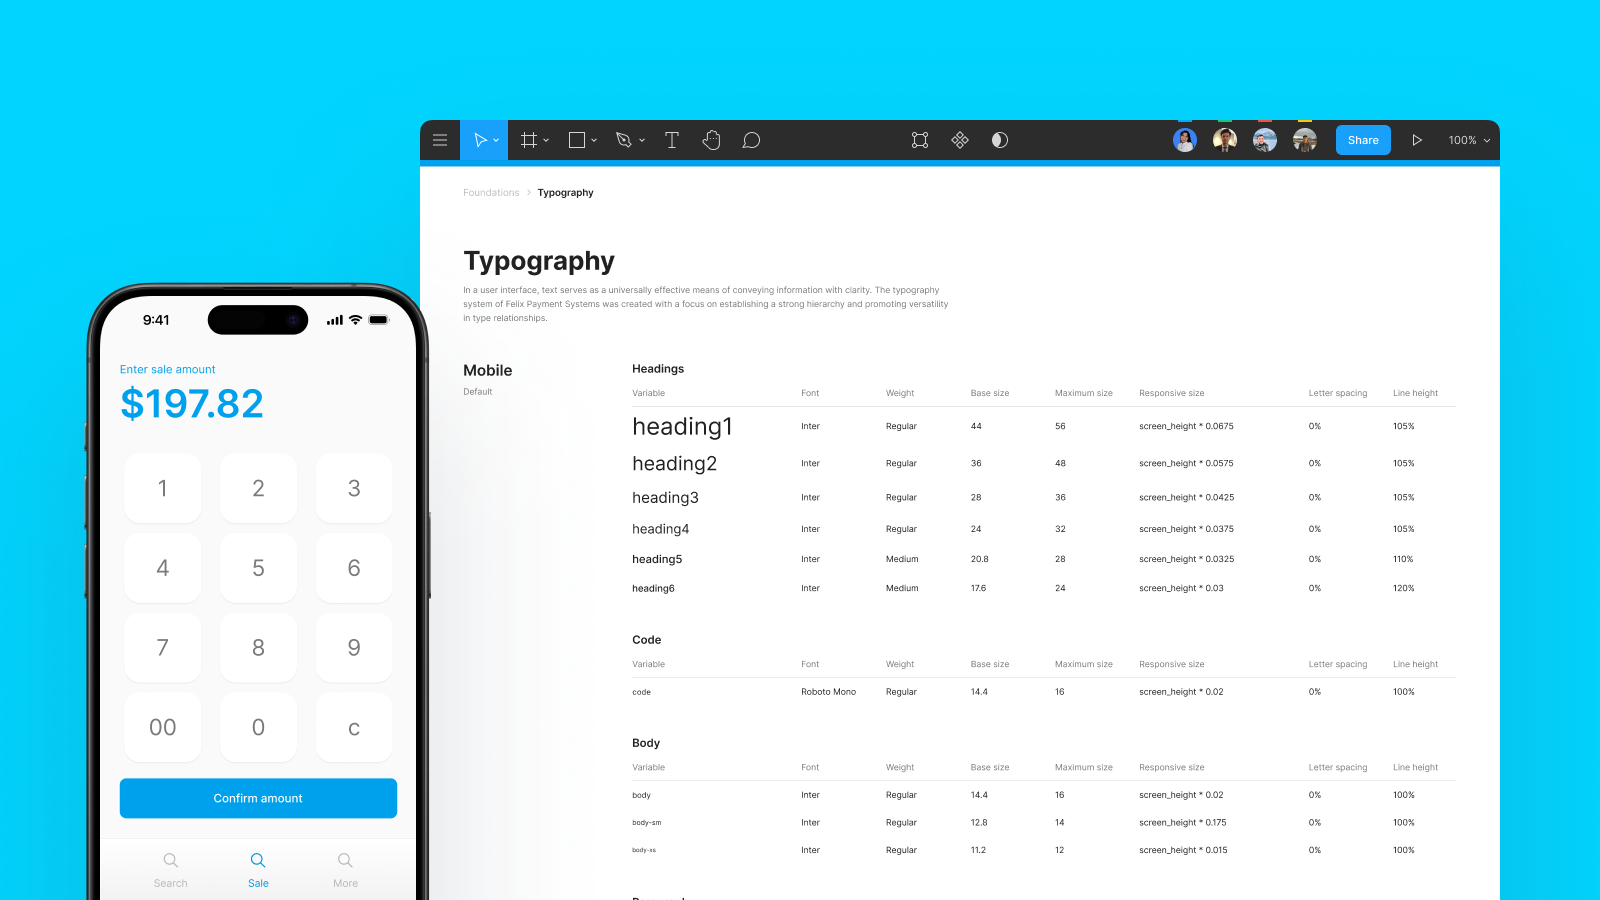
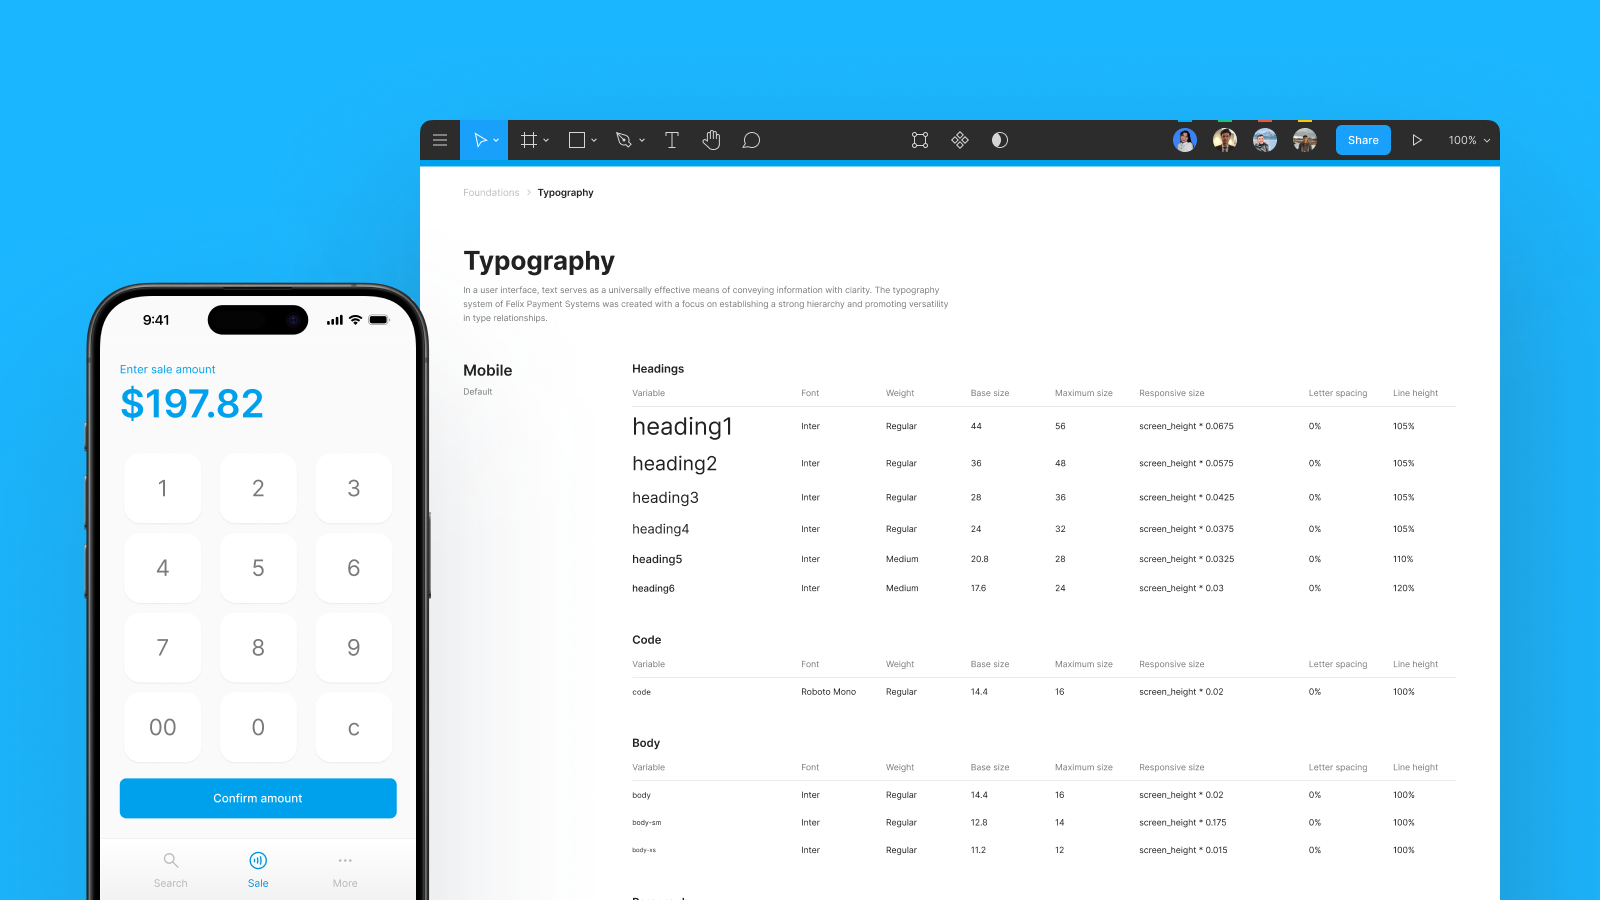
lore page updated

Changed region(s): [[0.0, 0.0, 1.0, 1.0], [0.125, 0.8711, 0.1875, 0.9022], [0.1562, 0.9333, 0.1875, 0.9644]]

diff --git a/app/lore/page.jsx b/app/lore/page.jsx
@@ -5,6 +5,7 @@ import InventoryBox from "../../components/InventoryBox";
 import Tag from "../../components/Tag";
 import Experience from "../../components/Experience";
 
+import Album from "../../components/Album";
 import Divider from "../../components/blocks/Divider";
 import { AnimatePresence, motion } from "framer-motion";
 import Award from "../../components/Award";
@@ -13,39 +14,39 @@ export default function Lore() {
     return (
         // lg:h-[calc(100dvh-9rem)] lg:max-h-[calc(100dvh-5rem)]
         <main className="max-w-[80rem]  grid lg:grid-cols-2 gap-4 lg:gap-8 items-center m-8 lg:mx-auto">
-
-            <PixelBorderBox className="h-full w-full">
-                <div className="flex flex-col gap-8 w-full h-full p-2">
-                    <div className="flex flex-col justify-center items-center gap-8">
-                        <img src="/christina-pixel-portrait.png" className="w-[96px] h-auto m-auto" />
-                        <div className="flex flex-col w-full mb-2 text-center">
-                            <h1 className="large-title mb-1">Christina Raganit</h1>
-                            <p className="title-1 italic">Product Designer</p>
-                        </div>
-                    </div>
-
-                    <div className="mx-auto">
-                        <Divider />
-                    </div>
-
-
-                    <div className="flex-1 h-full gap-8 w-full flex flex-col justify-between">
-                        <div className="flex flex-col">
-                            <Tag text={"BIOGRAPHY"} className="w-20 mb-5" />
-                            <p className="mb-4">I fell in love with design in the lecture halls of my computer science classes at BCIT. I initially dreamt of being a software developer so that I can build things that'll make the world a better place but it turns out, I wanted to design them, too.</p>
-
-                            <p className="mb-4">After graduating with my diploma in Computer Systems Technology, I enrolled into the Interactive Arts and Technology program at Simon Fraser University, where I am currently sharpening my skills in design as a fourth-year student, leading the product design team at SFU Surge, and being mentored by Naheel Jawaid at Silicon Valley School of Design.</p>
-
-                            <p className="mb-4">When I am not tinkering away on Figma or attending a hackathon somewhere, you can usually find me...</p>
-
-                            <ul className="list-disc list-inside mb-4">
-                                <li>Losing all my League of Legends games</li>
-                                <li>Jamming to my favorite blink-182 songs</li>
-                                <li>Reading stories about magic and dragons</li>
-                            </ul>
+            <div className="flex flex-col gap-4 lg:gap-8 w-full h-full">
+                <PixelBorderBox className="w-full">
+                    <div className="flex flex-col gap-8 w-full h-full p-2">
+                        <div className="flex flex-col justify-center items-center gap-8">
+                            <img src="/christina-pixel-portrait.png" className="w-[96px] h-auto m-auto" />
+                            <div className="flex flex-col w-full mb-2 text-center">
+                                <h1 className="large-title mb-1">Christina Raganit</h1>
+                                <p className="title-1 italic">Product Designer</p>
+                            </div>
                         </div>
 
-                        {/* <div className="mx-auto">
+                        <div className="mx-auto">
+                            <Divider />
+                        </div>
+
+
+                        <div className="flex-1 h-full gap-8 w-full flex flex-col justify-between">
+                            <div className="flex flex-col">
+                                <Tag text={"BIOGRAPHY"} className="w-20 mb-5" />
+                                <p className="mb-4">I fell in love with design in the lecture halls of my computer science classes at BCIT. I initially dreamt of being a software developer so that I can build things that'll make the world a better place but it turns out, I wanted to design them, too.</p>
+
+                                <p className="mb-4">After graduating with my diploma in Computer Systems Technology, I enrolled into the Interactive Arts and Technology program at Simon Fraser University, where I am currently sharpening my skills in design as a fourth-year student, leading the product design team at SFU Surge, and being mentored by Naheel Jawaid at Silicon Valley School of Design.</p>
+
+                                <p className="mb-4">When I am not tinkering away on Figma or munching on pizza at a hackathon somewhere, you can usually find me...</p>
+
+                                <ul className="list-disc list-inside">
+                                    <li>Losing all my League of Legends games</li>
+                                    <li>Jamming to my favorite blink-182 songs, and</li>
+                                    <li>Reading stories about magic and dragons</li>
+                                </ul>
+                            </div>
+
+                            {/* <div className="mx-auto">
                             <Divider />
                         </div>
 
@@ -73,12 +74,49 @@ export default function Lore() {
                                 </div>
                             </div>
                         </div> */}
+                        </div>
                     </div>
-                </div>
-            </PixelBorderBox>
+                </PixelBorderBox>
+
+                <PixelBorderBox className="w-full">
+                    <div id="library" className="w-full">
+                        <div className="flex justify-between mb-7 items-center">
+                            <Tag text={"LIBRARY"} className="w-16" />
+                            <span className="italic text-sm opacity-60">Christina's favorite albums</span>
+                        </div>
+
+                        <div className="grid lg:grid-cols-3 gap-6">
+                            <Album albumCover={"/library/hybrid-theory.png"} albumTitle={"Hybrid Theory"} artist={"Linkin Park"} releaseYear={"2001"} />
+                            <Album albumCover={"/library/btr.png"} albumTitle={"BTR"} artist={"Big Time Rush"} releaseYear={"2010"} />
+                            <Album albumCover={"/library/requiem.png"} albumTitle={"Requiem"} artist={"Keshi"} releaseYear={"2024"} />
+                        </div>
+                    </div>
+                </PixelBorderBox>
+
+                <PixelBorderBox className="w-full">
+                    <div id="inventory" className="w-full">
+                        <div className="flex justify-between mb-5 items-center">
+                            <Tag text={"INVENTORY"} className="w-16" />
+                            <span className="italic text-sm opacity-60">Hover to inspect the item</span>
+                        </div>
+                        <div className="w-full grid grid-cols-4 sm:grid-cols-6 gap-1">
+                            <InventoryBox icon="/inventory/book.svg" name={"A paperback novel"} description={"On the cover is a cyborg foot wearing a bright red slipper."} />
+
+                            <InventoryBox icon="/inventory/wallet.svg" name={"Christina's wallet"} description={"Wait a minute, there's nothing here!"} />
+                            <InventoryBox icon="/inventory/cookie.svg" name="A chocolate chip cookie
+" description={"It's quite crumbly. She must be saving it for later."} />
+                            <InventoryBox icon="/inventory/mouse.svg" name={"A Logitech Lift Vertical mouse"} description={"It's a strange form factor..."} />
+                            <PixelBorderBox color="light-blue" className="hidden sm:grid"></PixelBorderBox>
+                            <PixelBorderBox color="light-blue" className="hidden sm:grid"></PixelBorderBox>
+                        </div>
+                    </div>
+                </PixelBorderBox>
+
+
+            </div>
 
             <div className="flex flex-col gap-4 lg:gap-8 w-full h-full">
-                <PixelBorderBox className="w-full">
+                <PixelBorderBox className="w-full flex flex-row">
                     <div className="w-full">
                         <Tag text={"EXPERIENCE"} className="w-20 mb-5" />
                         <div className="-mt-1 w-full flex flex-col gap-4">
@@ -86,26 +124,38 @@ export default function Lore() {
                             <Experience role={"UA Design Intern"} company={"SAP"} year={"2024–2025"} />
                             <Experience role={"UX Designer"} company={"Felix Payment Systems"} year={"2022–2024"} />
                             <Experience role={"UX Designer"} company={"Karma Well Health Technologies"} year={"2021–2022"} />
+                            <Experience role={"QA Tester"} company={"Electronic Arts"} year={"2020"} />
+                        </div>
+                    </div>
+
+                </PixelBorderBox>
+
+                <PixelBorderBox className="w-full">
+                    <div className="w-full">
+                        <Tag text={"EDUCATION"} className="w-20 mb-5" />
+                        <div className="-mt-1 w-full flex flex-col gap-4">
+                            <Experience role={"6-month design fellowship by Google Innovation Designer"} company={"Design Fellow at Silicon Valley School of Design"} year={"2025"} />
+                            <Experience role={"Simon Fraser University"} company={"BS, Interactive Arts & Technology"} year={"2021-2025"} />
+                            <Experience role={"British Columbia Institute of Technology"} company={"Diploma in Computer Systems Technology"} year={"2019–2021"} />
                         </div>
                     </div>
                 </PixelBorderBox>
-
-                <PixelBorderBox className="w-full flex-1">
+                <PixelBorderBox className="w-full">
                     <div className="overflow-y-auto h-full w-full">
                         <Tag text={"AWARDS"} className="w-20 mb-5" />
                         <div className="-mt-1 w-full flex flex-col gap-4">
                             <Award award={"2nd Place"} awardedBy={"CreateSC 2025"} year={"2025"} />
-                            {/* <Award award={"Undergraduate Open Scholarship"} awardedBy={"Simon Fraser University"} year={"2024"} />
-                            <Award award={"Nancy Morrison and Fraser Green Special Abilities Award"} awardedBy={"Simon Fraser University"} year={"2023"} />
-                            <Award award={"Undergraduate Open Scholarship"} awardedBy={"Simon Fraser University"} year={"2023"} /> */}
+                            <Award award={"Undergraduate Open Scholarship"} awardedBy={"Simon Fraser University"} year={"2024"} />
+                            {/* <Award award={"Nancy Morrison and Fraser Green Special Abilities Award"} awardedBy={"Simon Fraser University"} year={"2023"} /> */}
+                            {/* <Award award={"Undergraduate Open Scholarship"} awardedBy={"Simon Fraser University"} year={"2023"} /> */}
                             <Award award={"2nd Place & Best UI/UX Design"} awardedBy={"StormHacks"} year={"2023"} />
                             <Award award={"1st Place & Best Design"} awardedBy={"cmd-f"} year={"2023"} />
                             <Award award={"Judges' Choice Award"} awardedBy={"RootHacks"} year={"2023"} />
                             <Award award={"2nd Place"} awardedBy={"HackED"} year={"2023"} />
                             <Award award={"Computer Systems Award in Tech Entrepreneurship"} awardedBy={"British Columbia Institute of Technology"} year={"2021"} />
-                            {/* <Award award={"President's Entrance Award"} awardedBy={"British Columbia Institute of Technology"} year={"2019"} /> */}
-                            {/* <Award award={"BC Excellence Award"} awardedBy={"Government of British Columbia"} year={"2019"} />
-                            <Award award={"District Authority Award"} awardedBy={"Government of British Columbia"} year={"2019"} /> */}
+                            <Award award={"President's Entrance Award"} awardedBy={"British Columbia Institute of Technology"} year={"2019"} />
+                            <Award award={"BC Excellence Award"} awardedBy={"Government of British Columbia"} year={"2019"} />
+                            <Award award={"District Authority Award"} awardedBy={"Government of British Columbia"} year={"2019"} />
                         </div>
                     </div>
                 </PixelBorderBox>

diff --git a/app/page.jsx b/app/page.jsx
@@ -8,10 +8,10 @@ import { motion } from "framer-motion";
 export default function Home() {
   return (<main className="flex flex-col items-center m-8">
     <section className="max-w-3xl flex flex-col items-center pt-16 pb-28">
-      <h1 className="large-title font-pixel text-center text-balance mb-6">Christina is a product designer who
+      <h1 className="large-title font-pixel text-center text-balance mb-5">Christina is a product designer who
         <i> writes code & thinks in systems.</i></h1>
 
-      <p className="text-balance text-center max-w-xl">Open to product design <span className="ampersand">&</span> design engineering internships for Summer 2026!</p>
+      <p className="body-lg text-center max-w-2xl text-balance">Open to product design <span className="ampersand">&</span> design engineering internships for Summer 2026!</p>
     </section>
 
     <section id="projects" className="max-w-[100rem] grid xl:grid-cols-2 gap-y-8 gap-x-8">
@@ -38,15 +38,11 @@ export default function Home() {
       </Project>
 
       <Project role={"Product Design"} title={"Improving mentorship for participants at Simon Fraser University's largest in-person hackathon"} year={"2024"}>
-        <img src="/projects/hackerhelper.png" draggable={false} />
+        <img src="/projects/hackerhelper-thumbnail.png" draggable={false} />
       </Project>
 
       <Project role={<span>Visual Design <span className="ampersand-sm">&</span> Branding</span>} title={"Built a design direction and prototyped a pre-event microsite for Amsterdam-based Dutch Design Week"} year={"2023"}>
         <img src="/projects/ddw-thumbnail.png" draggable={false} />
-      </Project>
-
-      <Project role={<span>Visual Design <span className="ampersand-sm">&</span> UX Design</span>} title={"Designed an accessible online shopping experience for first-time cannabis consumers"} year={"2023"}>
-        <img src="/projects/cheekys-thumbnail.png" draggable={false} />
       </Project>
 
     </section>

diff --git a/app/projects/felix-design-system/page.jsx b/app/projects/felix-design-system/page.jsx
@@ -60,7 +60,7 @@ export default function Felix() {
                     <p className="body-lg mb-4">Felix Payment Systems is a fintech startup focusing on tech that allows smartphone devices to act as payment terminals without requiring extra hardware.</p>
                     <p className="body-lg mb-6">Their two primary products are Terminal (for payment acceptance) and Portal (for businesses to manage and view records of their transactions).</p>
 
-                    <div className="aspect-video w-full bg-[#09CEF9] flex items-center justify-center mb-2">
+                    <div className="aspect-video w-full bg-[#1AB6FF] flex items-center justify-center mb-2">
                         <video src={"/projects/felix/felix-terminal.mp4"} controls muted autoPlay loop></video>
                     </div>
                     <MediaTag type={"VIDEO"} caption={"Promotional video for the Felix.Terminal app, depicting setup and payment acceptance flow"} className="mb-8"></MediaTag>

diff --git a/components/Album.jsx b/components/Album.jsx
@@ -1,0 +1,19 @@
+export default function Album({ albumCover, albumTitle, artist, releaseYear }) {
+    return (
+        <div className="w-full flex gap-6 lg:flex-col lg:gap-4 items-center lg:items-start">
+            <div className="flex flex-row">
+                <img src={albumCover} className="h-[96px] w-[96px] z-12"></img>
+                <div className="relative h-[96px] w-[96px] -ml-12">
+                    <img src={"/library/record-transparent.png"} className="absolute h-[96px] w-[96px] z-10"></img>
+                    <img src={albumCover} className="h-[36px] w-[36px] absolute top-[30px] left-[30px] z-1"></img>
+                </div>
+            </div>
+
+            <div>
+                <h3 className="title-2 mb-1">{albumTitle}</h3>
+                <p className="mb-0.5">{artist}</p>
+                <p className="text-sm opacity-75">{releaseYear}</p>
+            </div>
+        </div>
+    )
+}

diff --git a/app/sidequests/page.jsx b/app/sidequests/page.jsx
@@ -40,6 +40,10 @@ export default function Sidequests() {
             <Project role={<span>UX Design <span className="ampersand-sm">&</span> Frontend Development</span>} title={"Won 1st place at cmd-f with an app that enables victims to discreetly report incidents of domestic violence"} year={"2023"}>
                 <img src="/projects/chow-now.png"></img>
             </Project>
+
+            {/* <Project role={<span>Visual Design <span className="ampersand-sm">&</span> UX Design</span>} title={"Designed an accessible online shopping experience for first-time cannabis consumers"} year={"2023"}>
+                <img src="/projects/cheekys.png" draggable={false} />
+            </Project> */}
         </section>
     </main>);
 }

diff --git a/components/InventoryBox.jsx b/components/InventoryBox.jsx
@@ -115,7 +115,7 @@ export default function InventoryBox({ icon, name, description, className = "", 
                     style={menuStyle}
                 >
                     <PixelBorderBox color="selected" selected={true} className="shadow-2xl w-fit">
-                        <div className="-m-2 w-48 relative z-20">
+                        <div className="-m-2 w-48 relative z-40">
                             <h1 className="title-2 mb-1.5">{name}</h1>
                             <p className="text-sm">{description}</p>
                         </div>

diff --git a/app/globals.css b/app/globals.css
@@ -84,14 +84,14 @@ p {
   font-family: "SF Pro", sans-serif;
   font-size: 1.563rem;
   line-height: 1.938rem;
-  letter-spacing: -0.06rem;
+  letter-spacing: -0.0525rem;
 }
 
 .body-2xl {
   font-family: "SF Pro", sans-serif;
   font-size: 1.938rem;
   line-height: 2.375rem;
-  letter-spacing: -0.06rem;
+  letter-spacing: -0.0725rem;
 }
 
 .font-pixel {

diff --git a/components/HorizontalNavigation.jsx b/components/HorizontalNavigation.jsx
@@ -9,6 +9,7 @@ const navLinks = [
     { href: '/', label: 'Home' },
     { href: '/sidequests', label: 'Sidequests' },
     { href: '/lore', label: 'Lore' },
+    { href: 'https://drive.google.com/file/d/117W3Uhd93OZn8JN7znQGSRD4qwwMhw4y/view?usp=sharing', label: "Resume" }
 ];
 
 

diff --git a/app/projects/hackerhelper/page.jsx b/app/projects/hackerhelper/page.jsx
@@ -1,0 +1,3 @@
+export default function HackerHelper() {
+
+}
